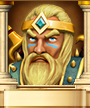
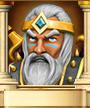
update military advisor

diff --git a/dark.css b/dark.css
@@ -118,9 +118,9 @@ ADVISORS
 
 /* MILITARY */
 #header #advisors #advMilitary .premium {
-    background-image: {url(https://github.com/dh4rm4/Ikariam_dark_skin/blob/master/img/advisors/2.png?raw=true) !important};
+    background-image: {url(https://github.com/dh4rm4/Ikariam_dark_skin/blob/master/img/advisors/1.png?raw=true) !important};
 	}
 
 #header #advisors #advMilitary .premium {
-    background-image: url(https://github.com/dh4rm4/Ikariam_dark_skin/blob/master/img/advisors/2.png?raw=true) !important;
+    background-image: url(https://github.com/dh4rm4/Ikariam_dark_skin/blob/master/img/advisors/1.png?raw=true) !important;
 	}
